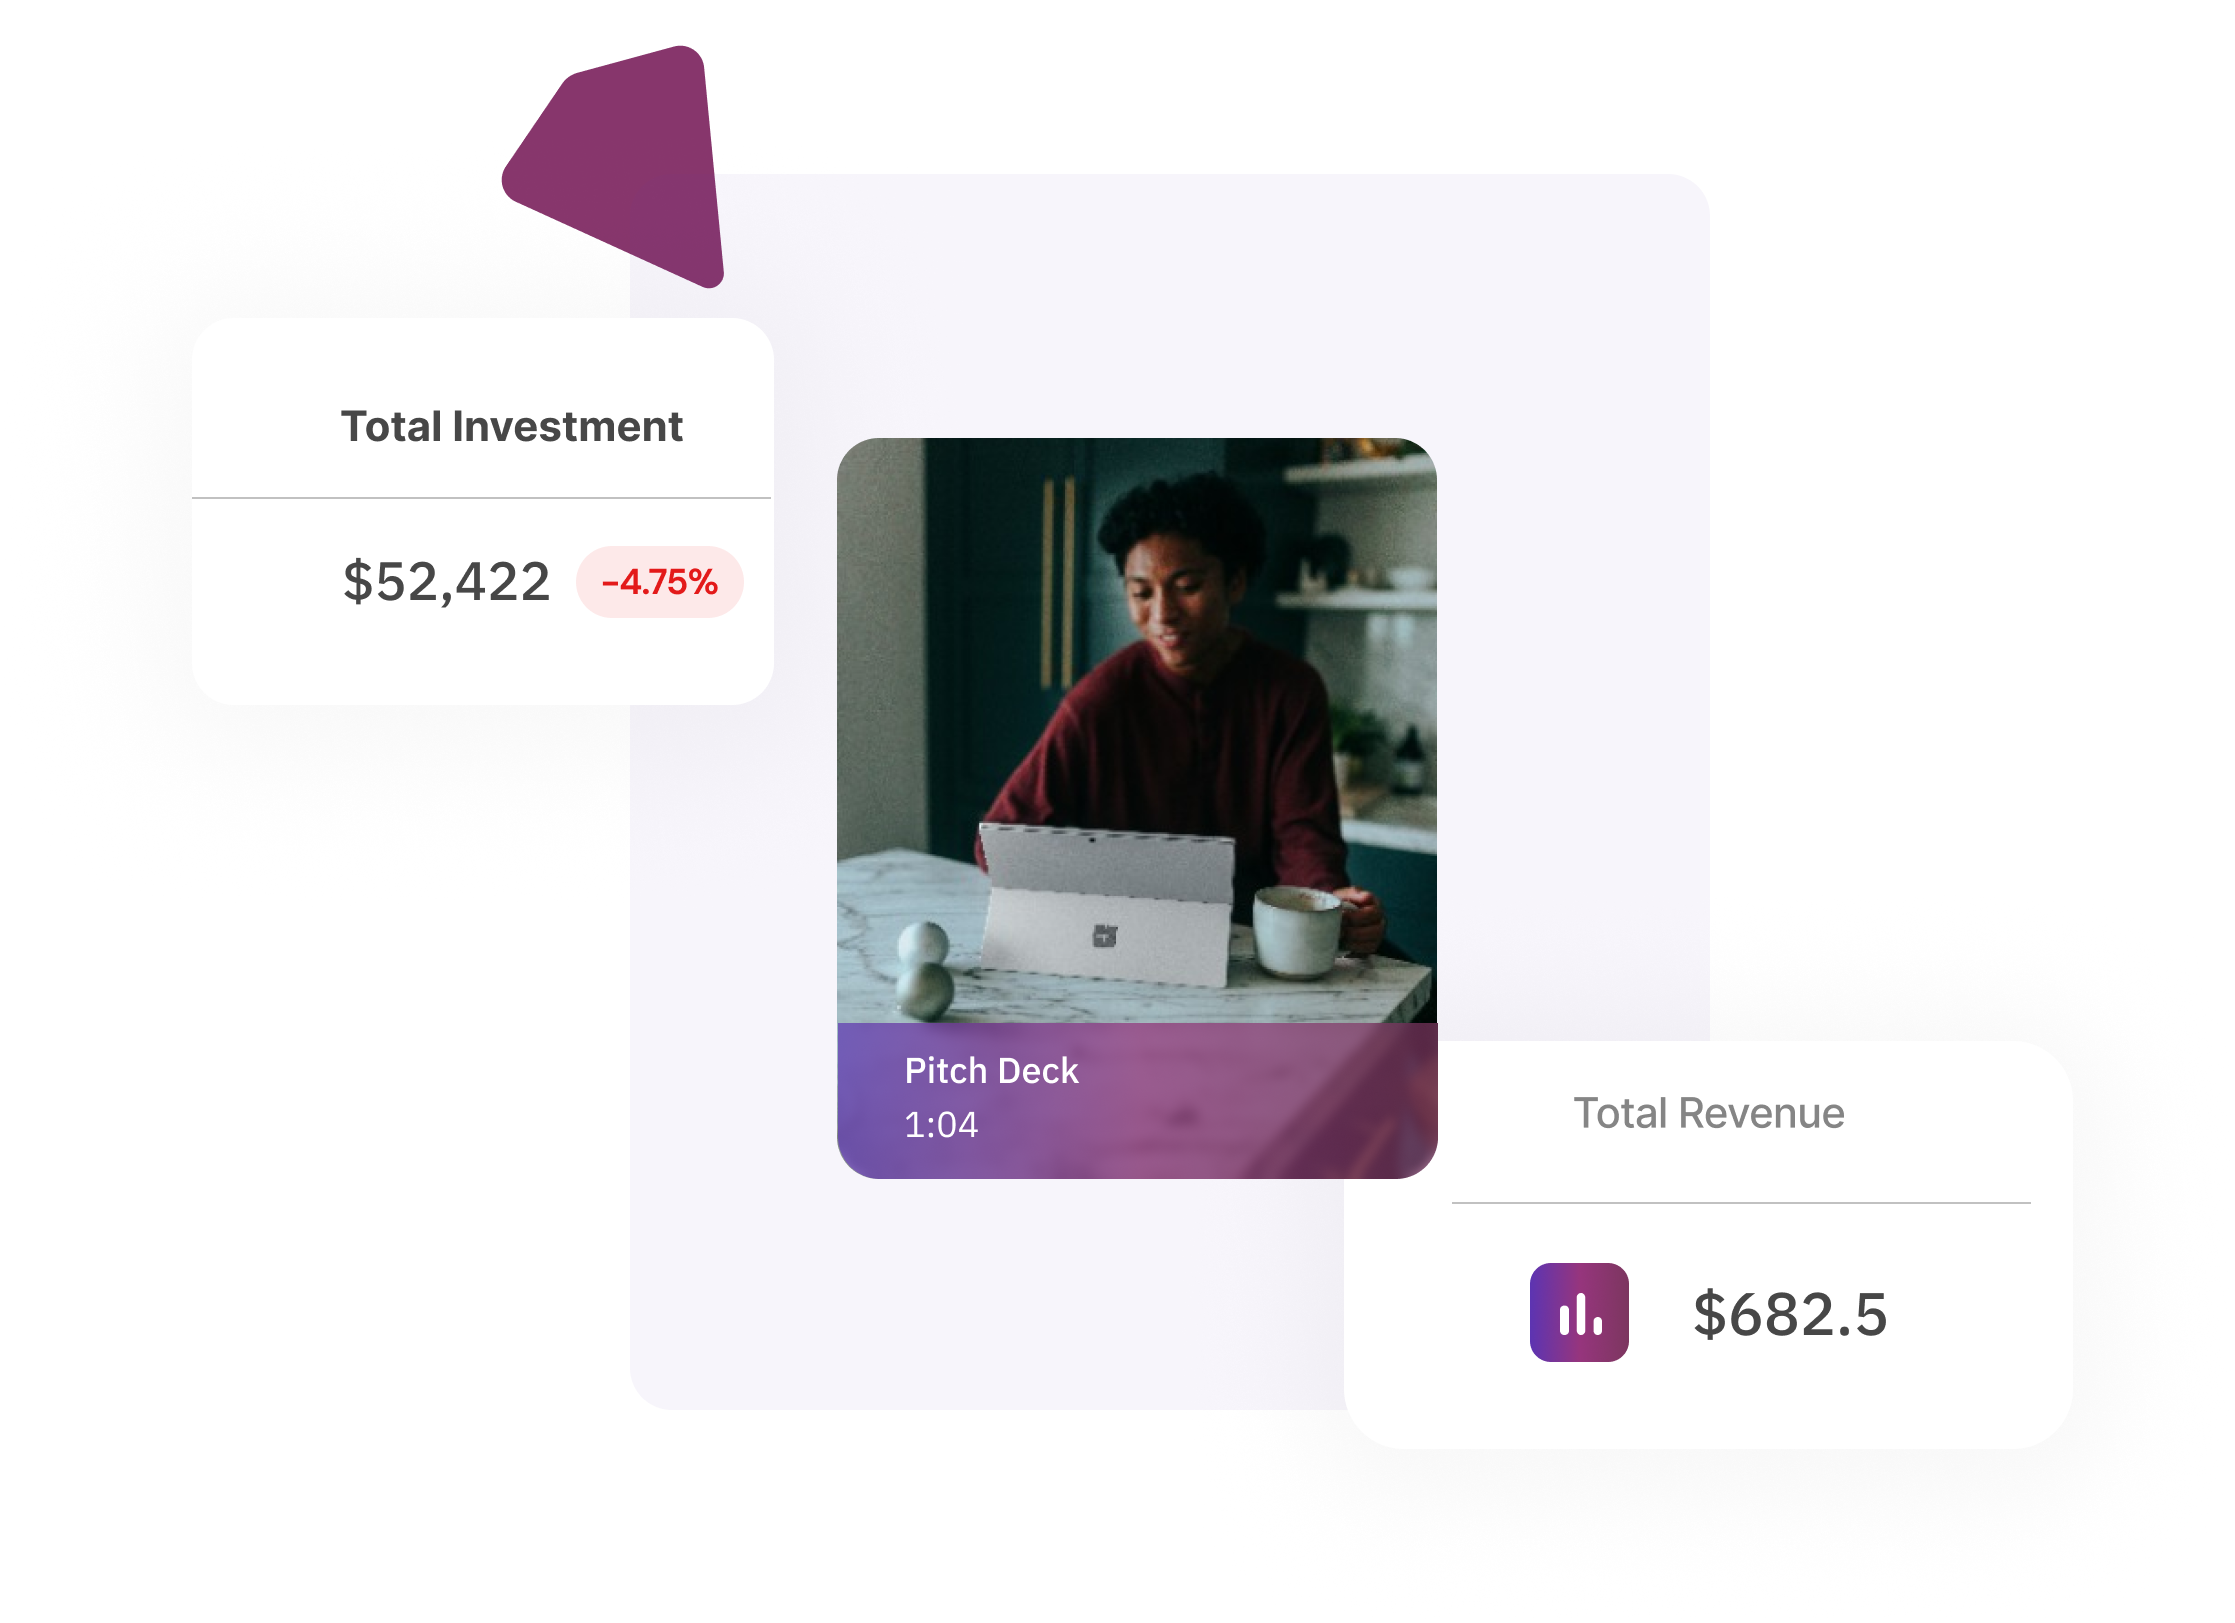
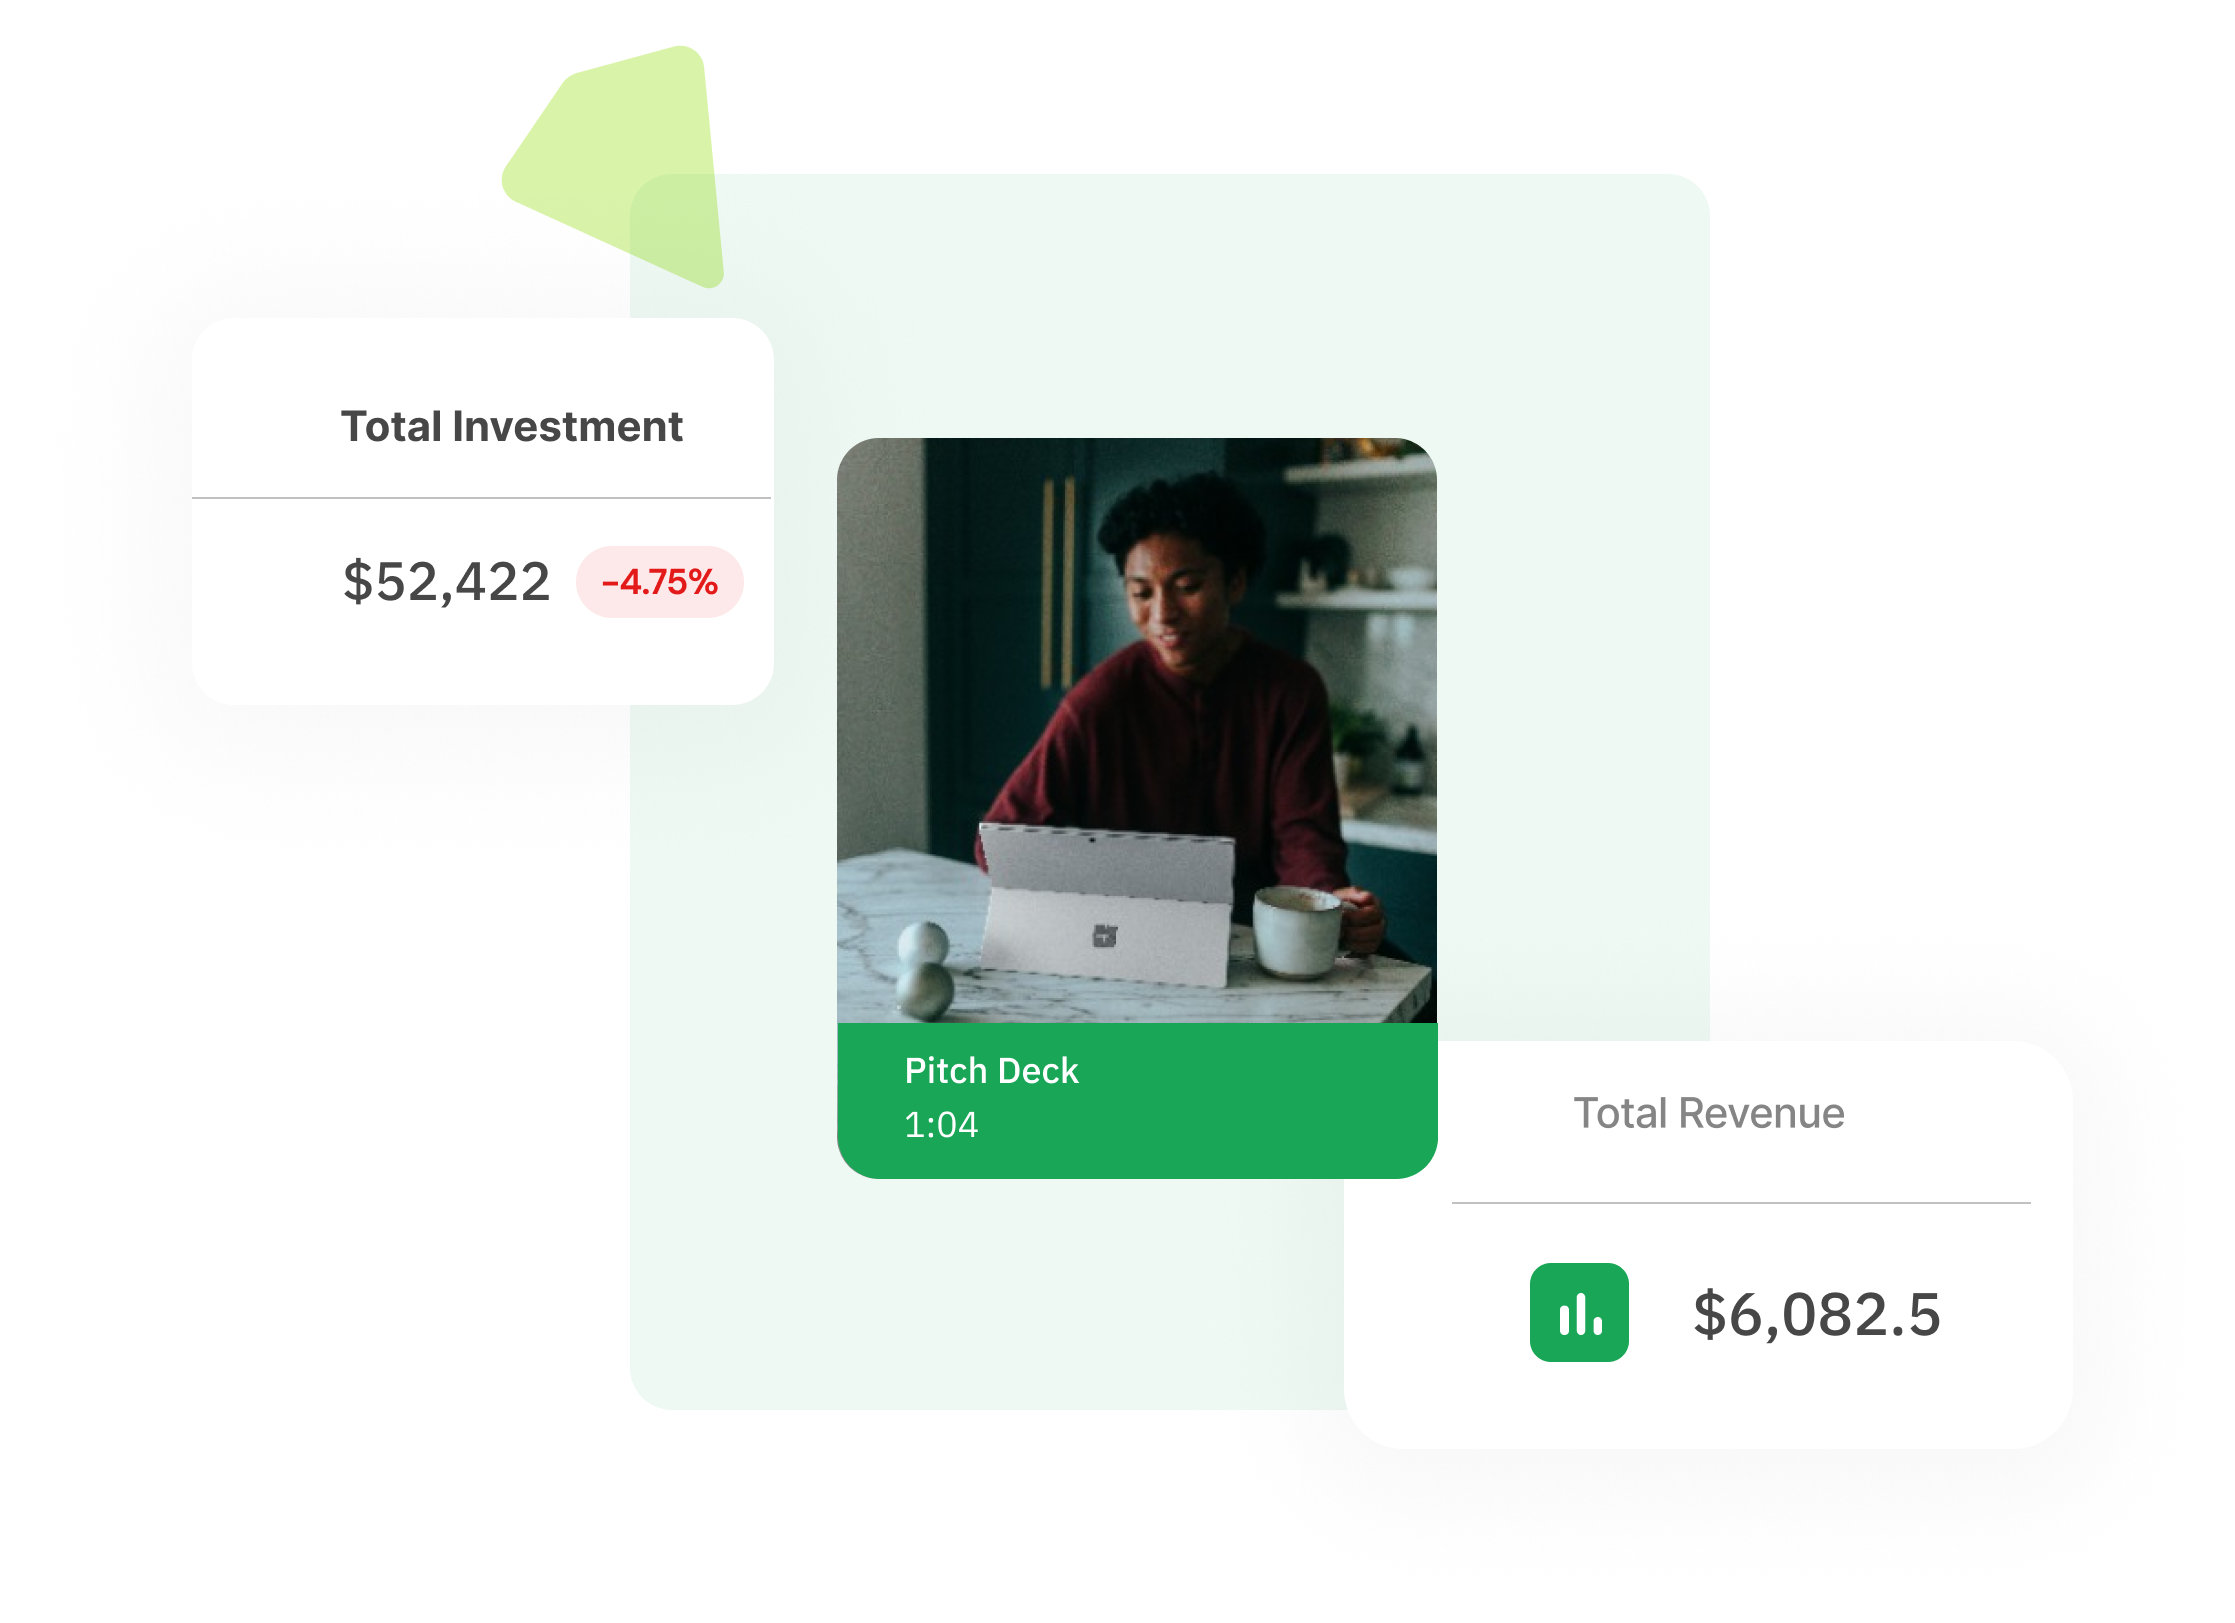
feat: change style

diff --git a/src/components/ui/button.tsx b/src/components/ui/button.tsx
@@ -10,8 +10,7 @@ const buttonVariants = cva(
   {
     variants: {
       variant: {
-        default:
-          "bg-primary-gradient text-slate-50 hover:bg-primary-gradient/90",
+        default: "bg-primary text-slate-50 hover:bg-primary/90",
         destructive: "bg-red-500 text-slate-50 hover:bg-red-500/90",
         outline:
           "border border-slate-200 bg-white hover:bg-slate-100 hover:text-slate-900",

diff --git a/tailwind.config.ts b/tailwind.config.ts
@@ -17,7 +17,7 @@ module.exports = {
     },
     extend: {
       colors: {
-        primary: "#96357D",
+        primary: "#1AA657",
       },
       backgroundImage: {
         "primary-gradient":
